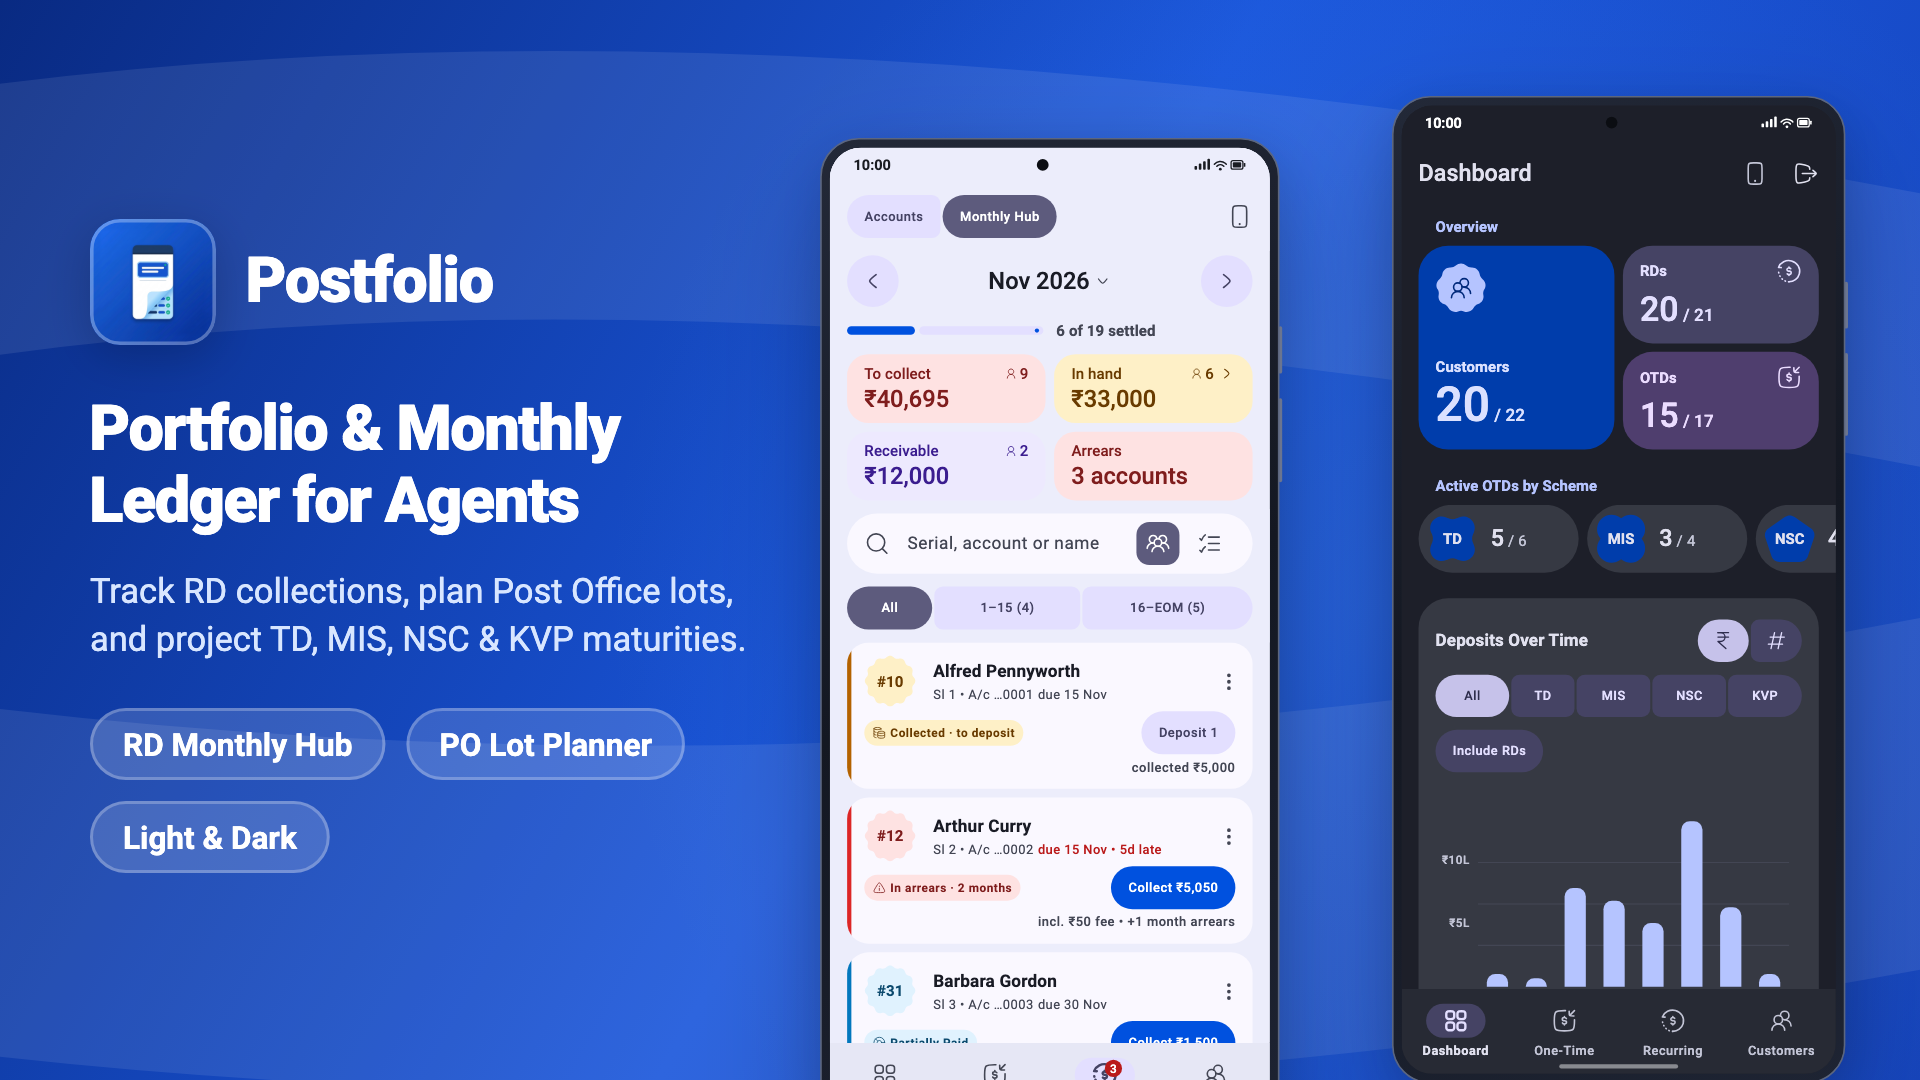
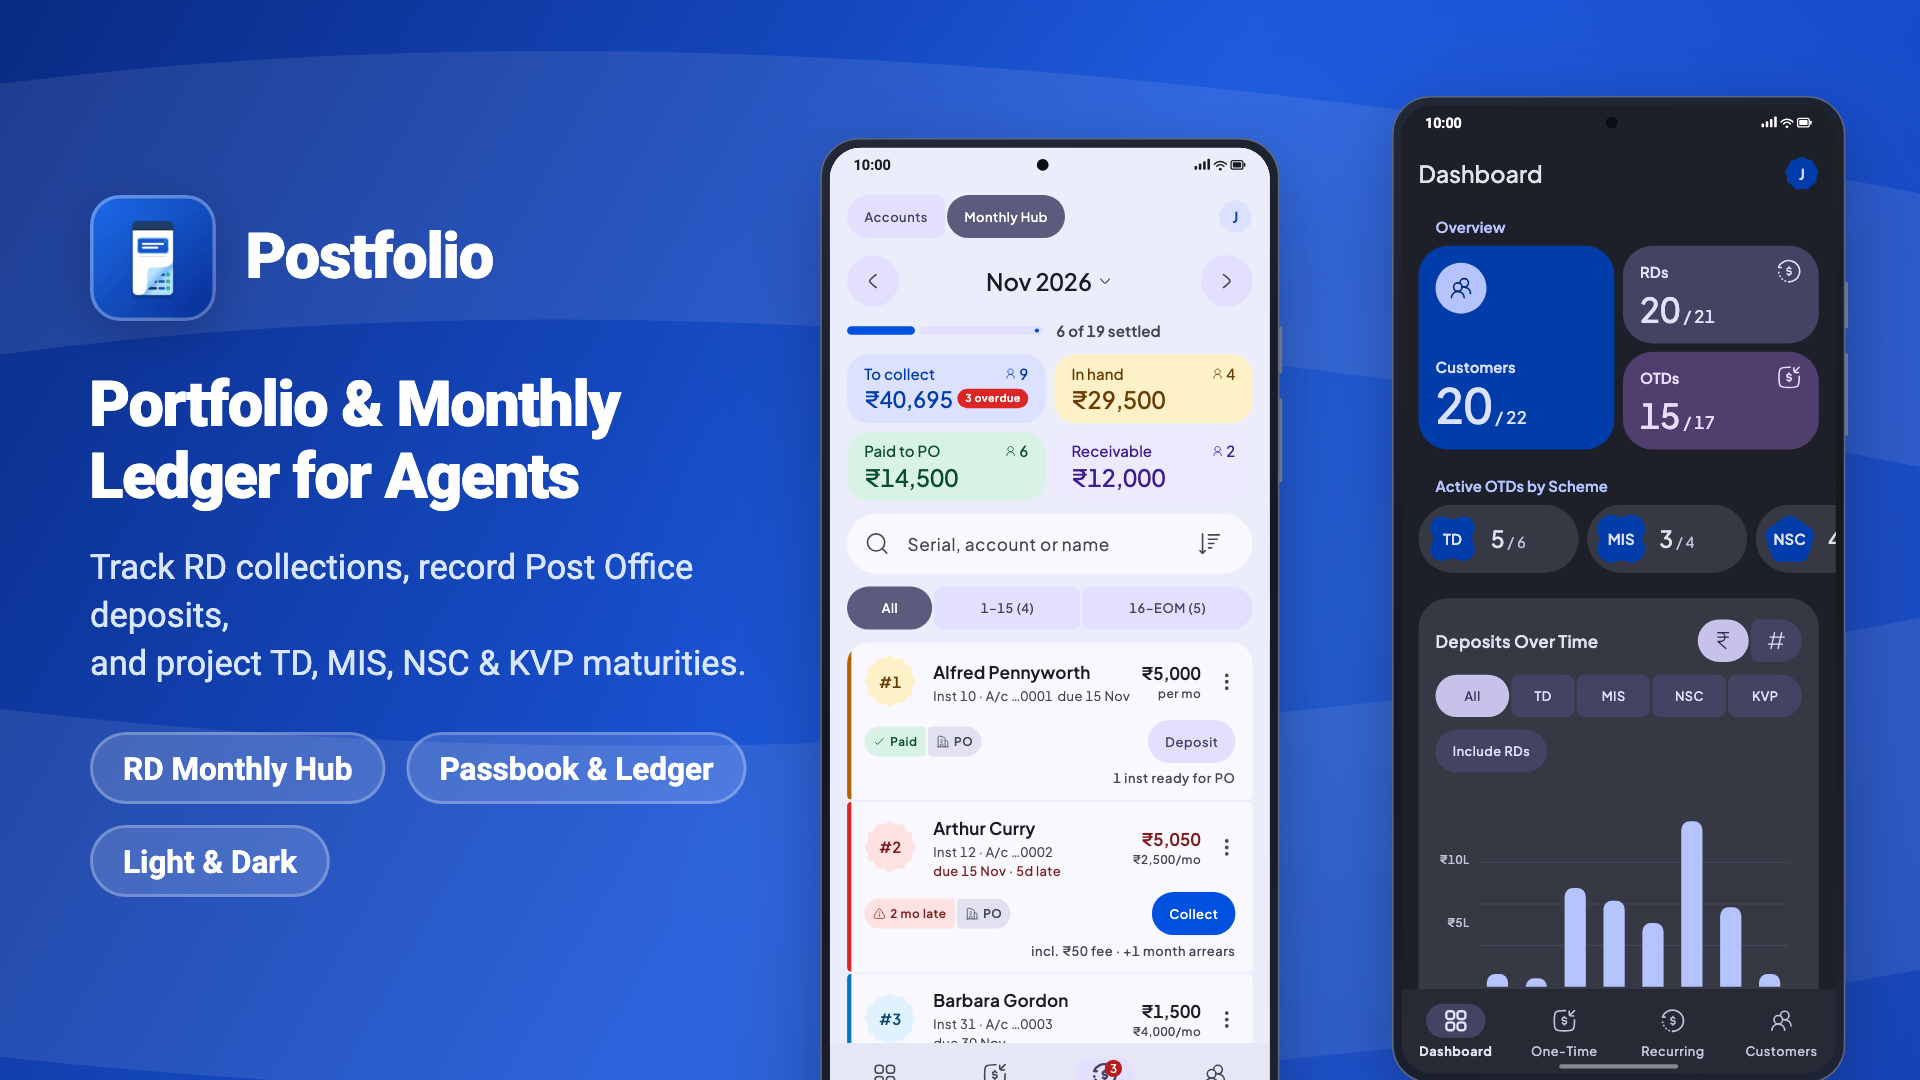
Chore(store): Align Play Store screenshots and metadata with live v2.5 UI

diff --git a/tool/store_screenshots/screenshot_fonts.dart b/tool/store_screenshots/screenshot_fonts.dart
@@ -11,6 +11,13 @@ class ScreenshotFonts {
 
   static bool _loaded = false;
 
+  static const _plusJakartaFiles = <String>[
+    'PlusJakartaSans-Regular.ttf',
+    'PlusJakartaSans-Medium.ttf',
+    'PlusJakartaSans-SemiBold.ttf',
+    'PlusJakartaSans-Bold.ttf',
+  ];
+
   static const _robotoFiles = <String>[
     'Roboto-Light.ttf',
     'Roboto-Regular.ttf',
@@ -19,11 +26,24 @@ class ScreenshotFonts {
     'Roboto-Black.ttf',
   ];
 
-  /// Loads `Roboto` and `MaterialIcons` into the test binding's [FontLoader].
-  /// Safe to call multiple times.
+  /// Loads `PlusJakartaSans`, `Roboto`, and `MaterialIcons` into the test binding's
+  /// [FontLoader]. Safe to call multiple times.
   static Future<void> ensureLoaded() async {
     if (_loaded) return;
     _loaded = true;
+
+    final assetsFontsDir = _findRelativeDir('assets/fonts');
+    if (assetsFontsDir != null) {
+      final jakartaLoader = FontLoader('PlusJakartaSans');
+      for (final filename in _plusJakartaFiles) {
+        final file = File('${assetsFontsDir.path}/$filename');
+        if (file.existsSync()) {
+          final bytes = await file.readAsBytes();
+          jakartaLoader.addFont(Future.value(ByteData.sublistView(bytes)));
+        }
+      }
+      await jakartaLoader.load();
+    }
 
     final robotoDir = _findBundledFontsDir();
     if (robotoDir == null) {
@@ -63,9 +83,12 @@ class ScreenshotFonts {
     }
   }
 
-  /// Applies bundled `Roboto` to every style in [theme].
+  /// Applies bundled `PlusJakartaSans` (with `Roboto` fallback) to [theme].
   static ThemeData applyTo(ThemeData theme) {
-    TextStyle? patch(TextStyle? style) => style?.copyWith(fontFamily: 'Roboto');
+    TextStyle? patch(TextStyle? style) => style?.copyWith(
+      fontFamily: style.fontFamily ?? 'PlusJakartaSans',
+      fontFamilyFallback: const ['Roboto'],
+    );
 
     TextTheme patchTheme(TextTheme t) => t.copyWith(
       displayLarge: patch(t.displayLarge),
@@ -91,12 +114,13 @@ class ScreenshotFonts {
     );
   }
 
-  static Directory? _findBundledFontsDir() {
+  static Directory? _findBundledFontsDir() =>
+      _findRelativeDir('tool/store_screenshots/fonts');
+
+  static Directory? _findRelativeDir(String relativePath) {
     var cursor = Directory.current;
     for (var i = 0; i < 6; i++) {
-      final candidate = Directory(
-        '${cursor.path}/tool/store_screenshots/fonts',
-      );
+      final candidate = Directory('${cursor.path}/$relativePath');
       if (candidate.existsSync()) return candidate;
       final parent = cursor.parent;
       if (parent.path == cursor.path) break;

diff --git a/tool/store_screenshots/marketing_frame.dart b/tool/store_screenshots/marketing_frame.dart
@@ -239,7 +239,7 @@ class LandscapeMarketingSlide extends StatelessWidget {
                       ),
                       const SizedBox(height: 9),
                       const Text(
-                        'Track RD collections, plan Post Office lots,\nand project TD, MIS, NSC & KVP maturities.',
+                        'Track RD collections, record Post Office deposits,\nand project TD, MIS, NSC & KVP maturities.',
                         style: TextStyle(
                           fontFamily: 'Roboto',
                           fontSize: 11.5,
@@ -254,7 +254,7 @@ class LandscapeMarketingSlide extends StatelessWidget {
                         runSpacing: 7,
                         children: [
                           _FeatureChip(label: 'RD Monthly Hub'),
-                          _FeatureChip(label: 'PO Lot Planner'),
+                          _FeatureChip(label: 'Passbook & Ledger'),
                           _FeatureChip(label: 'Light & Dark'),
                         ],
                       ),
@@ -723,7 +723,7 @@ class FeatureGraphicBanner extends StatelessWidget {
                           runSpacing: 6,
                           children: [
                             _FeatureChip(label: 'RD Monthly Hub'),
-                            _FeatureChip(label: 'PO Lot Planner'),
+                            _FeatureChip(label: 'Passbook & Ledger'),
                             _FeatureChip(label: 'TD · MIS · NSC · KVP'),
                           ],
                         ),

diff --git a/tool/store_screenshots/generate_store_screenshots_test.dart b/tool/store_screenshots/generate_store_screenshots_test.dart
@@ -551,28 +551,28 @@ void main() {
         route: '/rd?view=hub',
         badge: 'RD MONTHLY HUB',
         headline: 'Every RD due,\nat a glance',
-        subtitle: 'Settled, in-hand, overdue & fronted accounts',
+        subtitle: 'To collect, in hand, paid to PO & from pocket',
         slideIndex: 4,
         captionPlacement: CaptionPlacement.top,
         callout: const FloatingMetricCallout(
           eyebrow: 'CASH IN HAND',
-          value: '₹33,000 ready',
-          detail: '6 accounts · 2 PO cash lots',
+          value: '₹29,500 ready',
+          detail: '4 accounts ready for Post Office',
         ),
         outputFile: '05_monthly_hub.png',
       );
     });
 
-    testWidgets('06_po_visit_planner', (tester) async {
+    testWidgets('06_rd_transactions_po_deposits', (tester) async {
       await _pumpPortraitSlide(
         tester,
-        route: '/recurring-deposits/demo-rd-clark?tab=transactions',
+        route: '/rd/demo-rd-clark?tab=transactions',
         badge: 'PASSBOOK & PO DEPOSITS',
         headline: 'Every customer payment\n& PO visit in sync',
         subtitle: 'Track installments, cash vs digital & PO deposit receipts',
         slideIndex: 5,
         captionPlacement: CaptionPlacement.bottom,
-        outputFile: '06_po_visit_planner.png',
+        outputFile: '06_rd_transactions_po_deposits.png',
       );
     });
 

diff --git a/.agents/tasks.md b/.agents/tasks.md
@@ -9,7 +9,7 @@
 - [x] **Phase 3 — Official Material 3 Expressive Motion, Shapes & Desktop Adaptation (`2026-11-28_session_7.md`)**: Bundled and wired `PlusJakartaSans` (`assets/fonts/`, optical display/headline tracking + tabular figures); cached `SpringCurve` simulations (`Expando`) and consolidated `AppAnimations` into `AppMotion` with matched spring durations (`effectsSlow` `300ms` / `Interval` timing); wired root `AppExpressiveTheme` (`M3ETheme`) behind the expressive boundary in `main.dart`; added M3E selected corner morphing (`AppShapes.large`) on `AppGroupTile`, `ShapeBorder.lerp` morphing in `EntityAvatar.between` + `AppShapeAvatar.customShape`, `bottomSheetHandleWidth = 32`, `Switch`/`Checkbox` themes in `AppWidgetThemes` (pruning unused `card`/`segmented`/`expansion`/`radio` themes), and text-scale clamp on `AppFabMenu`; added expandable desktop `AppNavigationRail` (`breakpointExpanded = 840`) + centered `maxContentWidth = 1280.0` desktop bounds and updated `.agents/rules/ui.md`; verified **564/564** fast tests, `0` analyze issues, **82.3%** hand-written coverage.
 - [x] **Phase 4 — DDD, Strings, State Hygiene & Dormant Code Removal (`2026-11-28_session_7.md`)**: Deleted dormant `rd_po_visit_*`, `rd_hub_batch_bar`, `app_selection_flip`, `RDHubSelection`, and unused `toggleAccessibleTheme`; moved `effectiveAgentIdProvider` to `session_provider.dart` and centralized `SupabaseTables` / `SupabaseRpcs`; split `features/dashboard/providers/` into `domain/dashboard_models.dart` + `presentation/controllers/dashboard_controller.dart` (`@riverpod`) with `RecurringDeposit.totalScheduledAmount`; extracted `customerDepositsProvider`, `RDLedgerProjection.yearlyBucketsAt`, `AgentProfile.licenseRelativeDaysLabel`, `SettingsController` (`keepAlive`), and `EntityHero.customerDetail`; typed `ensureSummaries` (`Future<Result<void, String>>`), removed redundant `InvestmentProjection` getters, wired `SupabaseErrorMapper.onUnexpected` in `ActingAsController`, localized error strings under `t.errors.*`, normalized `" · "` / `Inst N` copy, and pruned dead Slang keys; verified **556/556** fast tests, `0` analyze issues, **82.5%** hand-written coverage.
 - [x] **Phase 5 — TDD Coverage & Accessibility Matrix Expansion (`2026-11-28_session_7.md`)**: Covered `0%–45%` pockets (`otd_search_criteria`, `rd_search_criteria`, `rd_step_track`, `intent_service`, `async_entity_builder`, `supabase_auth_repository`, `supabase_rd_ledger_repository`, `one_time_screen`, `use_customer_form`, `use_one_time_deposit_form`); expanded `accessibility_and_layout_invariants_test.dart` (`360×800 @ 2.0x` populated Profile/Admin/Edit forms, `accessibleLight`/`Dark`, modal sheets, and `1280×800` desktop screens), fixed `CustomerSelectionField` `32px` large-text overflow, ratcheted CI coverage floors (`87/83/75/83/83`), and verified **586/586** fast tests, `0` analyze issues, **85.8%** hand-written coverage.
-- [ ] **Phase 6 — Production Release Verification & Play Store Alignment**: `supabase db push` on hosted prod (`20261128000000_agent_profile_fields.sql`); replace dormant `06_po_visit_planner.png` & outdated `05_monthly_hub.png` store copy and regenerate goldens; run `release-manager` version/`CHANGELOG.md` bump, integration tests, `.aab` & web builds.
+- [x] **Phase 6 (Local Prep) — Play Store Asset Alignment & WebAssembly Verification (`2026-11-28_session_7.md`)**: Loaded `PlusJakartaSans` in `ScreenshotFonts`, retired `'fronted'` / `'PO Lot Planner'` / `'2 PO cash lots'` copy across `generate_store_screenshots_test.dart`, `marketing_frame.dart`, `docs/store_assets/`, and Fastlane `full_description.txt`, replaced `06_po_visit_planner.png` with `06_rd_transactions_po_deposits.png`, regenerated + verified `17/17` goldens + repeatability, verified `flutter build web --wasm`, **586/586** fast tests, `0` analyze issues, and `85.8%` coverage. *(Pending owner confirmation: hosted `supabase db push` for `20261128000000_agent_profile_fields.sql`, `release-manager` version/`CHANGELOG.md` bump + `.aab`, `git push` & Play Console sync.)*
 
 ## ⚙ Settings, Full Agent Profile & About/Legal — Phase 1 (2026-11-28)
 *Implemented & verified; log: `.agents/session_logs/2026-11-28_session_4.md`.*

diff --git a/.agents/progress.md b/.agents/progress.md
@@ -3,6 +3,11 @@
 *Entries from before the v2.4 work (release 2.3.1+22 and earlier) are in `.agents/historical_progress_archive.md`. It is not part of the session handshake.*
 
 ## Current State
+**Full-App Audit Remediation — Phases 1–6 Local Prep Completed & Verified (2026-11-28).** Log: `.agents/session_logs/2026-11-28_session_7.md`. Audit roadmap: [full_app_audit_and_release_plan.md](file:///Users/darshanas/.gemini/antigravity/brain/18cf6ed8-c944-4a89-847d-01061267fcff/full_app_audit_and_release_plan.md).
+- **Play Store Graphics & Copy Parity (`tool/store_screenshots/`, `docs/store_assets/`, `android/fastlane/`)**: Updated `ScreenshotFonts` to load `PlusJakartaSans` (`assets/fonts/`) with bundled `Roboto` fallback; replaced retired `'fronted'`, `'PO Lot Planner'`, and `'2 PO cash lots'` copy in `generate_store_screenshots_test.dart` (`05_monthly_hub` callout synced to `₹29,500 ready · 4 accounts ready for Post Office`), `marketing_frame.dart`, `docs/store_assets/README.md`, `listing_metadata.md`, and `full_description.txt`; replaced removed `06_po_visit_planner.png` with live `06_rd_transactions_po_deposits.png` (`Payments` & `PO Deposits` tabs on `demo-rd-clark`); regenerated and visually verified all `17` Play Store assets (`17/17` repeatability pass).
+- **WebAssembly Build & Full Verification (2026-11-28)**: `flutter build web --wasm` built cleanly (`build/web`, `45.8s`); `dart format lib test tool` clean (`349` files, `0` changed); `dart analyze --fatal-infos` (`0` issues); **586/586** fast tests pass; `dart run tool/check_coverage.dart --min-domain=87 --min-controllers=83 --min-data=75 --min-ui=83 --min-total=83` passes (**85.8% total** hand-written coverage: `domain & core` 89.2%, `controllers & providers` 85.4%, `data & repositories` 78.9%, `presentation UI & routing` 85.7%).
+- **Pending Owner Sign-Off Before Public Release**: (1) Run hosted `supabase db push` for `20261128000000_agent_profile_fields.sql`; (2) run `release-manager` version bump (`2.5.0+24`) + `CHANGELOG.md` + `flutter build appbundle --flavor prod --release`; (3) `git push origin main`, release tag, and Play Console store sync.
+
 **Full-App Audit Remediation — Phase 5 (TDD Coverage & Accessibility Matrix Expansion) Completed & Verified (2026-11-28).** Log: `.agents/session_logs/2026-11-28_session_7.md`. Audit roadmap: [full_app_audit_and_release_plan.md](file:///Users/darshanas/.gemini/antigravity/brain/18cf6ed8-c944-4a89-847d-01061267fcff/full_app_audit_and_release_plan.md).
 - **Low-Coverage Pocket Suites (`domain_and_service_coverage_test.dart`, `supabase_auth_and_ledger_repository_test.dart`, `one_time_screen_and_forms_test.dart`)**: Added unit, loopback HTTP repository, and widget/hook suites covering `OTDSearchCriteria` / `RDSearchCriteria`, `RDHubStepTrack`, `IntentService` URI launching, `AsyncEntityBuilder` / `AsyncSingleEntityBuilder` states, `SupabaseAuthRepository`, `SupabaseRDLedgerRepository`, `OneTimeDepositsScreen` filters/sorting/reset, `useCustomerForm`, and `useOneTimeDepositForm`.
 - **Accessibility & Overflow Hardening (`customer_selection_field.dart`, `accessibility_and_layout_invariants_test.dart`)**: Expanded `360×800 @ 2.0x` matrix with populated `FakeProfileRepository` + `FakeAdminRepository` overrides, populated Edit forms (`CustomerFormScreen`, `OneTimeDepositFormScreen`, `RecurringDepositFormScreen`), `accessibleLight` / `accessibleDark` dense screens, modal sheets (`RDLogPaymentSheet`, `RDDepositSheet`, `AdminAgentPickerSheet`), and `1280×800` desktop checks for Dashboard/Profile/Settings/Detail; fixed a real `32px` RenderFlex overflow in `CustomerSelectionField` when a customer with `CIF`/phone was selected at `2.0x` text scale.

diff --git a/.agents/session_logs/2026-11-28_session_7.md b/.agents/session_logs/2026-11-28_session_7.md
@@ -49,3 +49,8 @@ Completed **Phase 2 (Cross-Screen UI/UX Parity & Design-System Wrapper Cleanup)*
 - **Accessibility & Overflow Fix (`lib/features/customers/presentation/widgets/customer_selection_field.dart`, `test/ui/accessibility_and_layout_invariants_test.dart`)**: Populated `FakeProfileRepository` & `FakeAdminRepository` overrides, added Edit form states, `accessibleLight`/`Dark` screens, modal sheets (`RDLogPaymentSheet`, `RDDepositSheet`, `AdminAgentPickerSheet`), and expanded `1280×800` desktop checks; fixed a `32px` RenderFlex overflow on populated `CustomerSelectionField` at `2.0x` text scale by stacking `secondaryText` beneath `nameText` when `AppDimensions.isLargeText(context)`.
 - **CI Floor Ratchet (`.github/workflows/ci.yml`)**: Raised `--min-domain=87 --min-controllers=83 --min-data=75 --min-ui=83 --min-total=83`.
 - **Verification**: `dart format lib test tool` (`349` files, `0` changed); `dart analyze --fatal-infos` (`0` issues); **586/586** fast tests pass; **85.8%** total hand-written coverage (`domain & core` 89.2%, `controllers & providers` 85.4%, `data & repositories` 78.9%, `presentation UI & routing` 85.7%).
+
+## Phase 6 Changes (Play Store Alignment & Web Wasm Verification)
+- **Play Store Copy & Font Sync (`tool/store_screenshots/`, `docs/store_assets/`, `android/fastlane/`)**: Added `PlusJakartaSans` (`assets/fonts/`) loading with `Roboto` fallback in `ScreenshotFonts`; updated `05_monthly_hub` (`To collect, in hand, paid to PO & from pocket`, callout `₹29,500 ready · 4 accounts ready for Post Office`), `06_rd_transactions_po_deposits` (replacing retired `06_po_visit_planner.png` with live `/rd/demo-rd-clark?tab=transactions`), `marketing_frame.dart` (`Passbook & Ledger`), `docs/store_assets/{README,listing_metadata}.md`, and `android/fastlane/metadata/android/en-US/full_description.txt`.
+- **Golden & Build Verification**: Regenerated and visually inspected all `17` Play Store screenshots (`17/17` `--update-goldens` + repeatability pass); verified `flutter build web --wasm` (`45.8s`), `dart format lib test tool` (`349` files, `0` changed), `dart analyze --fatal-infos` (`0` issues), **586/586** fast tests, and `tool/check_coverage.dart` (`85.8%` against ratcheted `87/83/75/83/83` CI floors).
+- **Ready for Owner Confirmation**: Hosted `supabase db push` (`20261128000000_agent_profile_fields.sql`), `release-manager` bump (`2.5.0+24`) + `CHANGELOG.md` + `.aab` build, `git push origin main`, and Play Console sync.

diff --git a/docs/store_assets/README.md b/docs/store_assets/README.md
@@ -11,7 +11,7 @@ All Google Play Store assets are tracked here and generated deterministically fr
   3. `03_rd_passbook.png` — RD Passbook & Ledger (`Clark Kent` `#7` schedule + `LEDGER AUDIT` callout; Bottom-Bleed, Soft Ice, top caption)
   4. `04_dashboard.png` — Portfolio Overview (`Dashboard` KPIs & Deposits Over Time chart; Bottom-Bleed, Soft Ice, bottom caption)
   5. `05_monthly_hub.png` — RD Monthly Hub (`Nov 2026` totals + `CASH IN HAND` callout; Bottom-Bleed, Royal Blue, top caption)
-  6. `06_po_visit_planner.png` — Batch PO Visit Planner (`Post Office visit` sheet with ₹20k cash lot splits; Bottom-Bleed, Royal Blue, bottom caption)
+  6. `06_rd_transactions_po_deposits.png` — RD Transactions & PO Deposits (`Clark Kent` Payments & PO Deposits tabs with receipts; Bottom-Bleed, Royal Blue, bottom caption)
   7. `07_collect_payment_dark.png` — 1-Tap Collect Payment Sheet (`Arthur Curry`, Dark theme; Bottom-Bleed, Midnight, top caption)
   8. `08_otd_projection_accessible.png` — OTD Projections & High-Contrast Mode (`Bruce Wayne` MIS `AppTheme.accessibleLightTheme`; Bottom-Bleed, Midnight, bottom caption)
 - [x] **7-Inch Tablet Screenshots (`docs/store_assets/tablet_7_screenshots/`)**: 4 framed landscape slides (`960 × 600` viewport → `1920 × 1080` px, opaque 24-bit RGB PNG, `hasAlpha: no`):

diff --git a/docs/store_assets/listing_metadata.md b/docs/store_assets/listing_metadata.md
@@ -11,7 +11,7 @@ Postfolio is a fast, modern portfolio and monthly ledger companion built for Pos
 
 KEY FEATURES
 • Customer Portfolio Directory: Keep customer details, nominee allocations, savings accounts, and linked deposits organized in one searchable place.
-• Recurring Deposit (RD) Monthly Hub: See every account due this month at a glance — track what is settled, collected in hand, overdue, or fronted — and plan Post Office deposit visits in batches.
+• Recurring Deposit (RD) Monthly Hub: See every account due this month at a glance — track what is settled, collected in hand, overdue, or paid from pocket — and record Post Office deposits cleanly.
 • RD Passbook & Ledger: Record customer payments, track Post Office deposits and default fees, and inspect month-by-month installment history.
 • One-Time Deposits & Projections: Track Time Deposit (TD), Monthly Income Scheme (MIS), National Savings Certificate (NSC), and Kisan Vikas Patra (KVP) accounts with automatic maturity and payout projections.
 • Portfolio Dashboard: View active holdings, scheme-wise breakdowns, and upcoming maturities in one clean overview.
